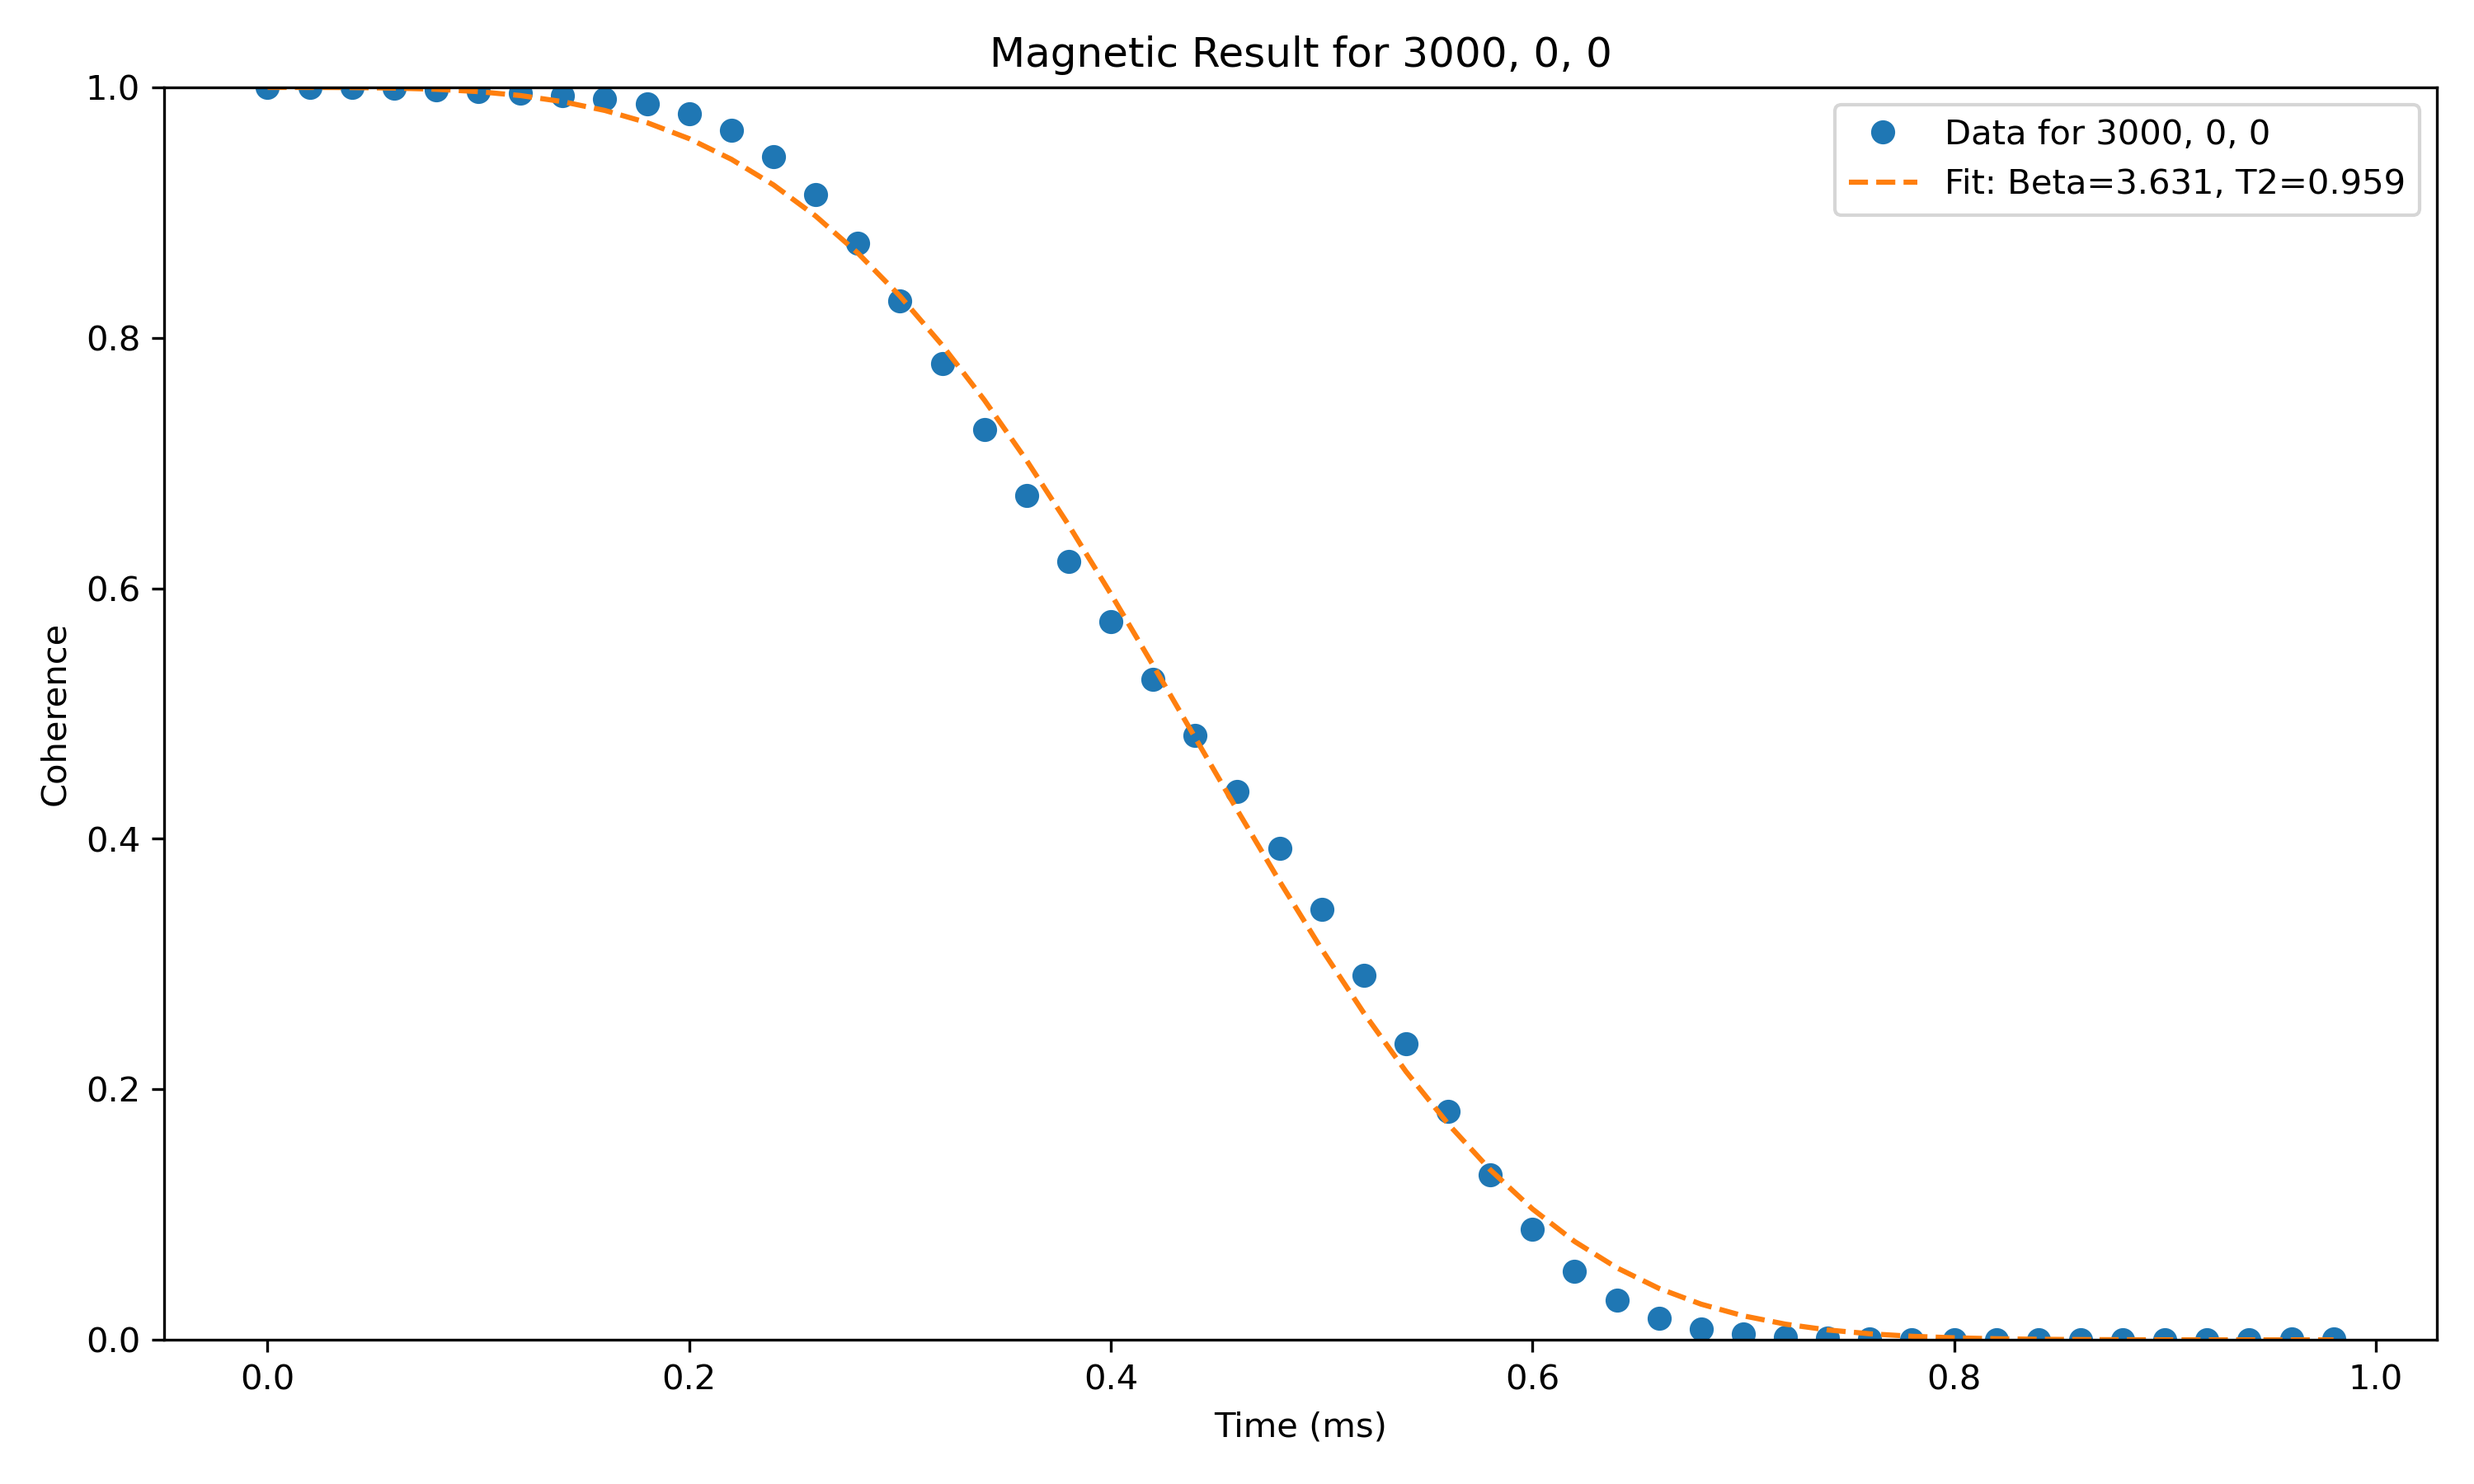
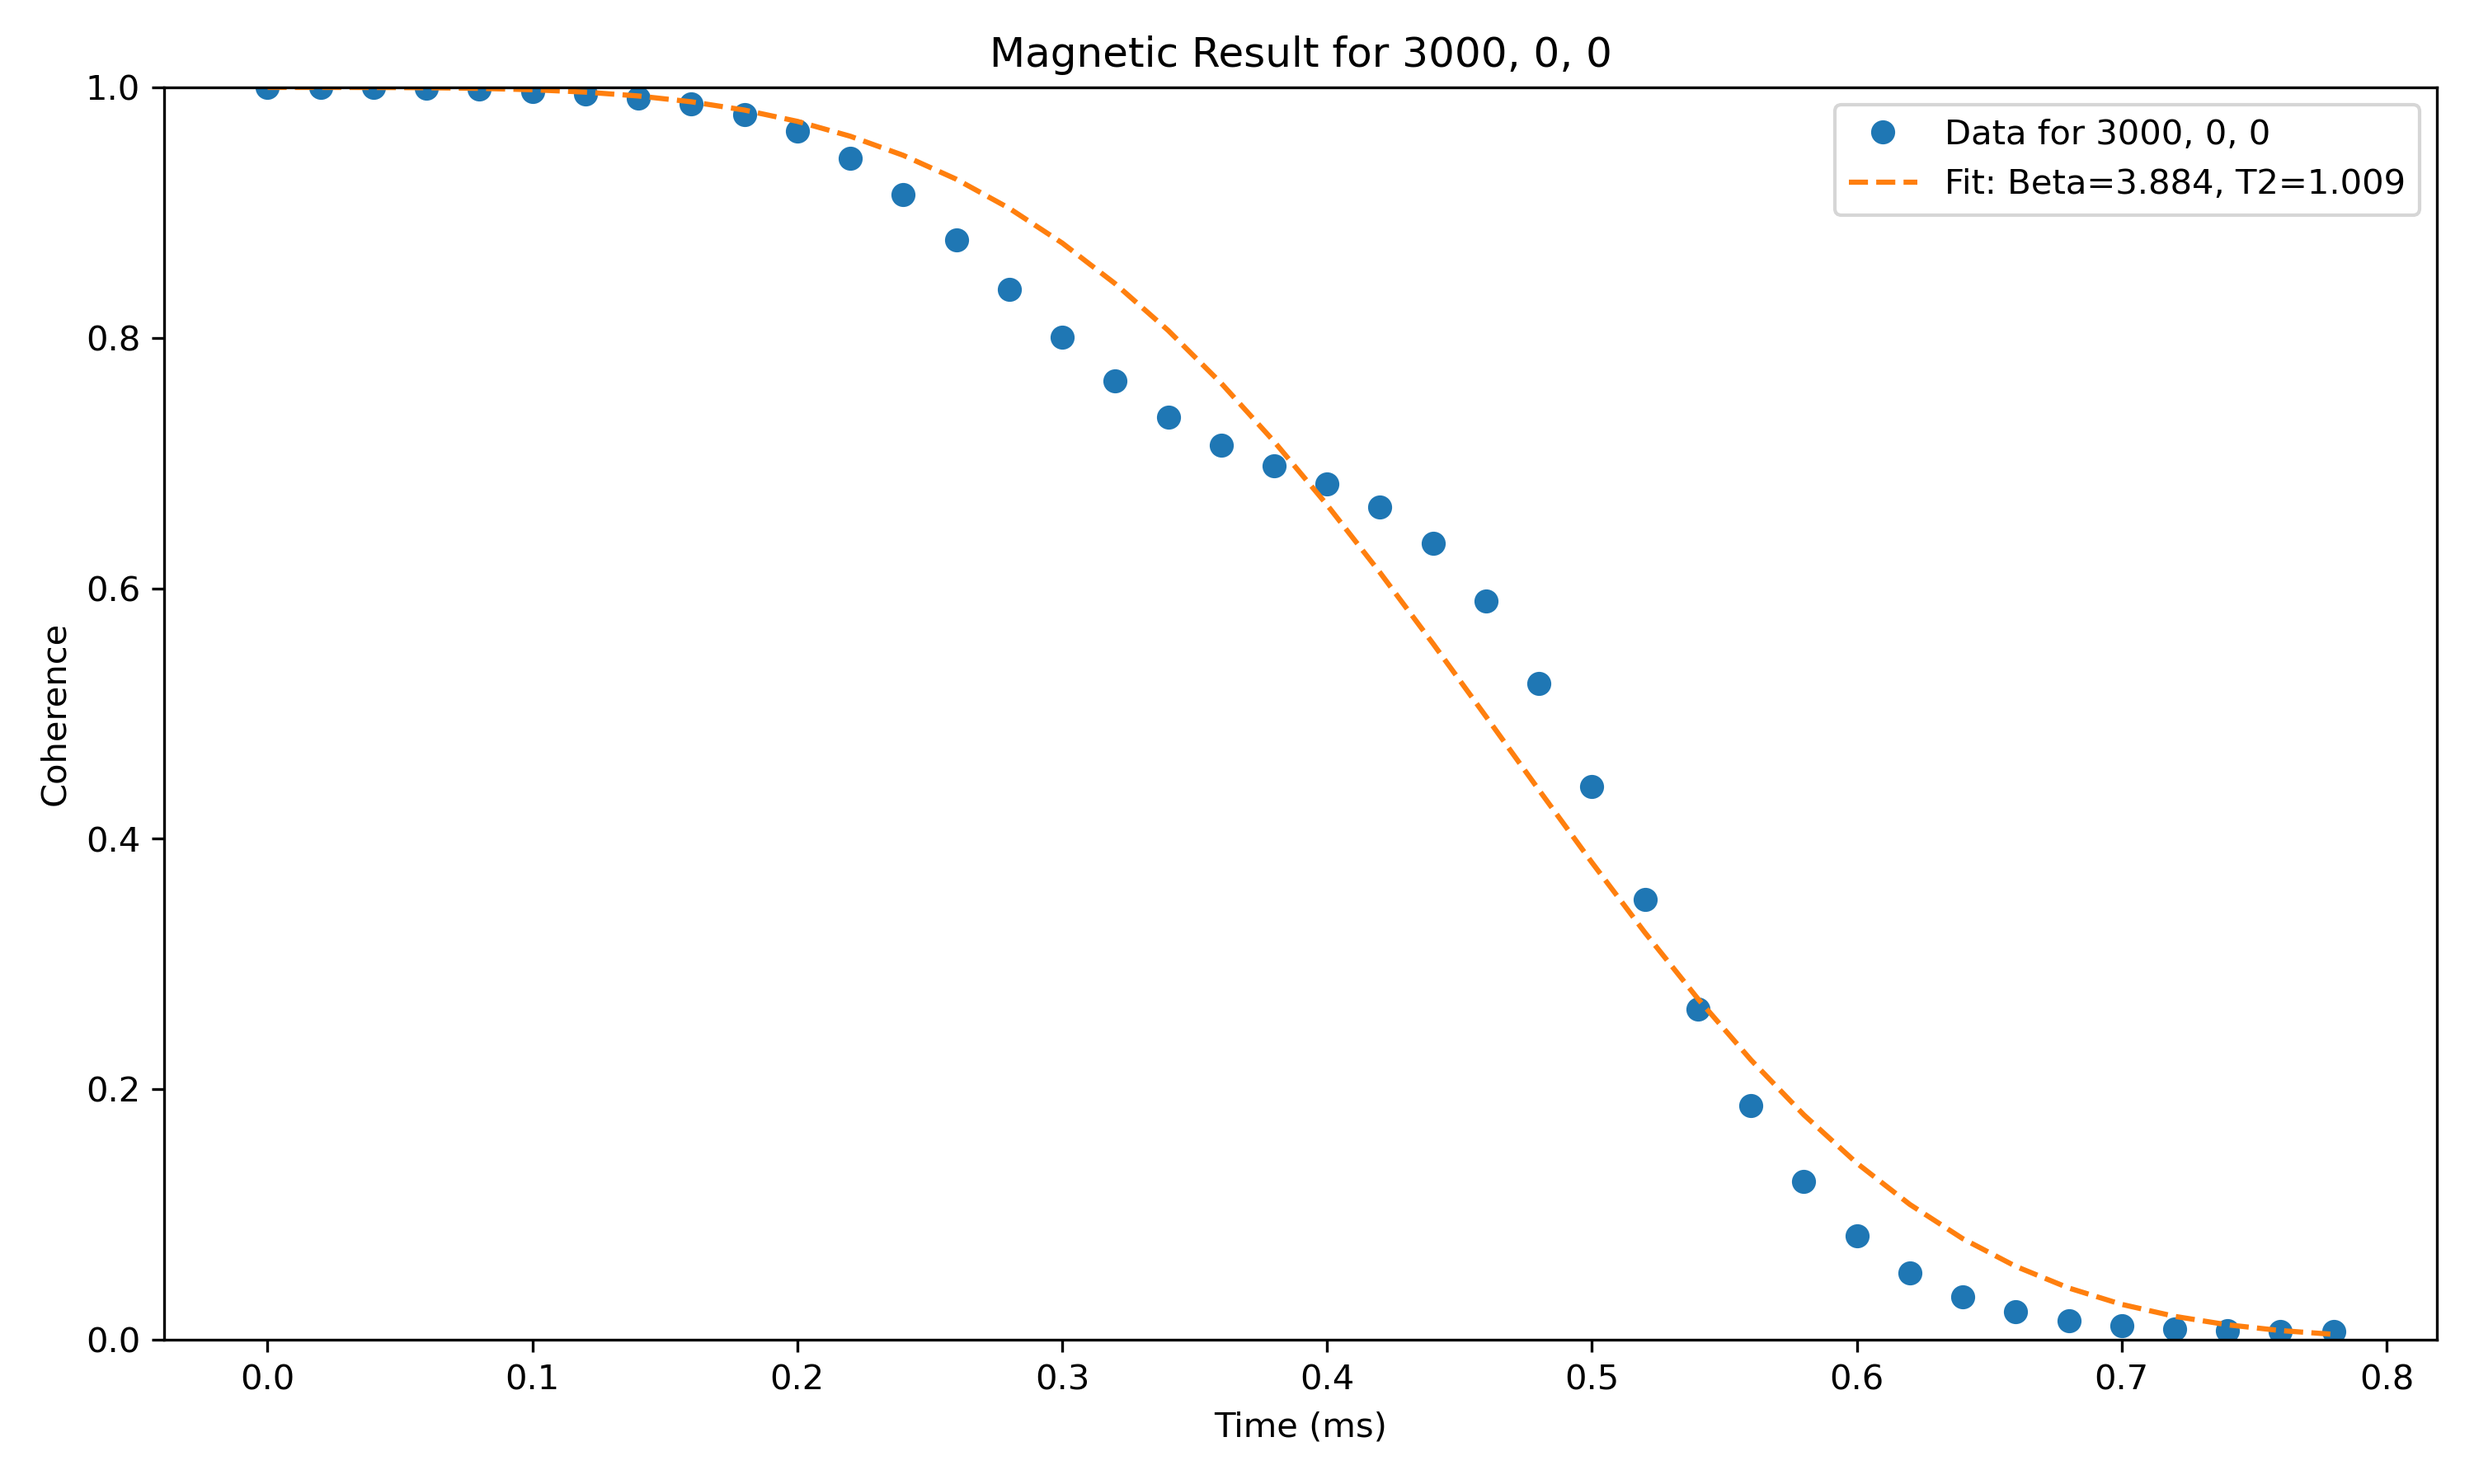
[e-n]-n N2N, order=3, r_X=20,15. T2=1.01ms

diff --git a/VOTPP folder/VOTPP_results_and_fit_plotter.py b/VOTPP folder/VOTPP_results_and_fit_plotter.py
@@ -105,8 +105,8 @@ def plot_from_file(pickle_filenames, data_range=slice(None)):
         plot_individual_with_fit(loaded_results, variable_name, image_path, pickle_path, data_range=data_range)
 
 # Provide the filenames you want to process as a list
-plot_from_file(['magnetic_results.pkl',])
-# plot_from_file(['magnetic_results.pkl'], data_range=slice(0, 50))
+# plot_from_file(['magnetic_results.pkl',])
+plot_from_file(['magnetic_results.pkl'], data_range=slice(0, 40))
 
 # plot_from_file(['magnetic_results_e_n.pkl',])
 # plot_from_file(['magnetic_results_n_n.pkl',])
